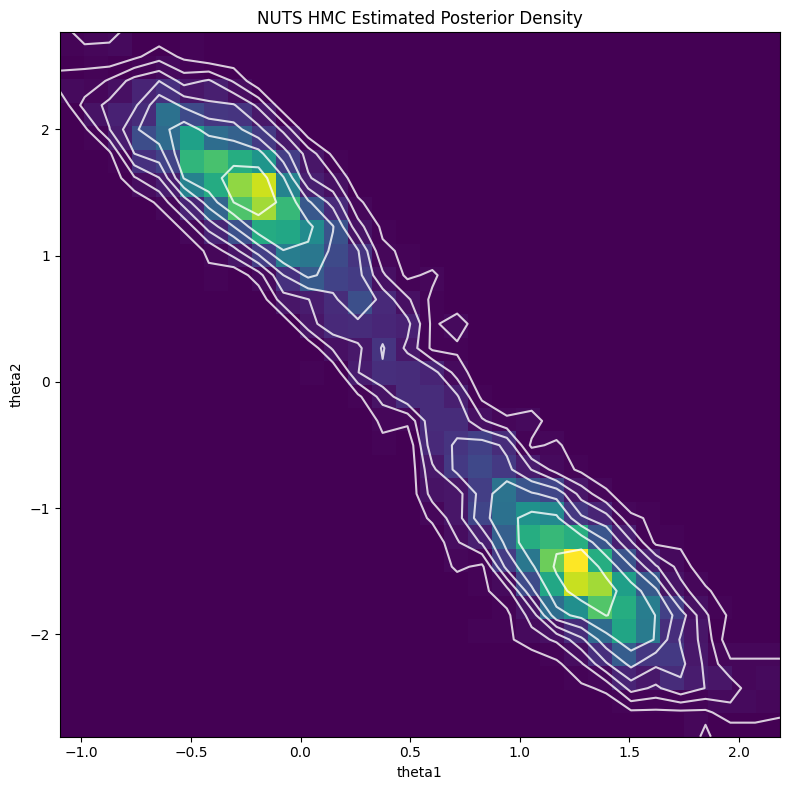
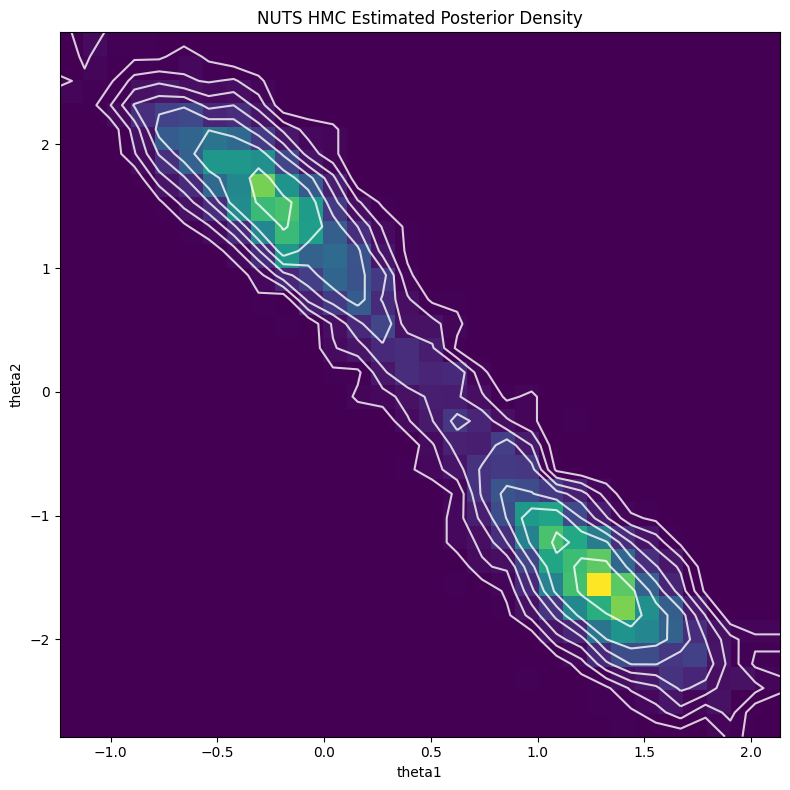
Updating images with bugfix and related text for SGLD post.

diff --git a/source/posts/estimating-uncertainty-via-stochastic-gradient-langevin-dynamics-and-bayes-by-backprop.rst b/source/posts/estimating-uncertainty-via-stochastic-gradient-langevin-dynamics-and-bayes-by-backprop.rst
@@ -1061,6 +1061,8 @@ associated priors).
 Results
 _______
 
+*Update 2023-08-17: Section updated with a bug fix, thanks @davetornado!*
+
 The first obvious thing to do is estimate the posterior using MCMC.  I used
 `PyMC <https://www.pymc.io/welcome.html>`__ for this because I think it has the
 most intuitive interface.  The code is only a handful of lines and is made easy 
@@ -1105,36 +1107,23 @@ The results are shown in Figure 5.
     **Figure 5: HMC and SGLD estimates of posterior for various batch sizes**
 
 We can see that SGLD is no panacea for posterior estimation.  With batch size of 100,
-it only ever explores one mode.  Likely, I would have to play with the learning
-rate schedule to ensure that it starts high enough that the Langevin dynamics
-will let it wander to the other mode.  Considering I started at :math:`(1,1)`,
-it's no surprise that it drifted towards the top left first.  The upside is that
-it seemed to be squarely centred on one of the true modes that SGD found at
-approximately :math:`(-0.25, 1.5)`.
+it spends most of its time in the bottom right mode, while mostly missing the
+top left one.  It makes sense the SGLD using the polynomial learning rate
+schedule would have a tendency to sit in one mode because we're rapidly
+decaying :math:`\epsilon` (and thus ability to "jump" around and find the other
+mode).  The upside is that it seemed to the right shape and location of the
+distribution overall distribution for both modes.
 
-Batch size of 10 shows quite a different story.  It seemed to properly explore
-the first mode but then wanders to the second mode and gets stuck there.  Again,
-we're seeing the sensitivity of SGLD to the learning rate schedule.  The peak
-on the second mode seems a bit off as well.  I should note that as mentioned in
-the SGLD section, the samples from it are not guaranteed to match the true
-posterior (theoretically only a subsequence is guaranteed).  So this comparison
-of contour plots isn't exactly fair but we're looking at macro characteristics of
-finding all the modes, which we would expect to see.
+Both batch size of 1 and 10 shows a similar story to that of 100 but this time
+they spend most of its time in the top left mode.  Where SGLD gets "stuck"
+seems to depend on the initial conditions and the randomness injected.
+However, it does appear to have the right shape as with batch size 100.
 
-Lastly using a batch size of 1 (same as [Welling2011]_), we see something
-closer to the true posterior with a clearly defined mode in the top left
-corner, and a visible but less clearly defined mode in the bottom right.
-Again, the story is likely that it wandered into the bottom right at some
-point, but got stuck in the top left corner after a while.  This is kind of
-expected as you shrink :math:`\epsilon`, it's just very unlikely to jump too
-far away from the first mode it found.  The peaks of the samples are also off
-from the exact posterior for the same reason as discussed.
-
-My conclusion from this experiment is that vanilla SGLD is not a very robust
-algorithm.  It's so sensitive to the learning rate, which can cause it to have
+My conclusion from this experiment is that vanilla SGLD is not as robust as MCMC. 
+It's so sensitive to the learning rate schedule, which can cause it to have
 issues finding modes as seen above.  There are numerous extensions to SGLD that
 I haven't really looked at (including ones that are inspired by HMC) so those
-may provide more robust algorithms to do at scale posterior sampling.  Having
+may provide more robust algorithms to do at-scale posterior sampling.  Having
 said that, perhaps you aren't too interested in trying to generate the exact
 posterior.  In those cases, SGLD seems to do a *good enough* job at estimating
 the uncertainty around one of the modes (at least in this simple case).
